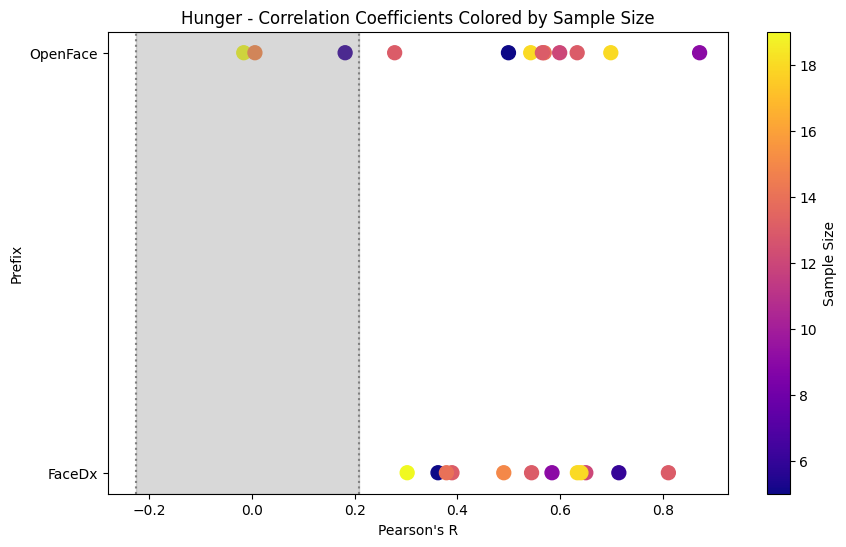
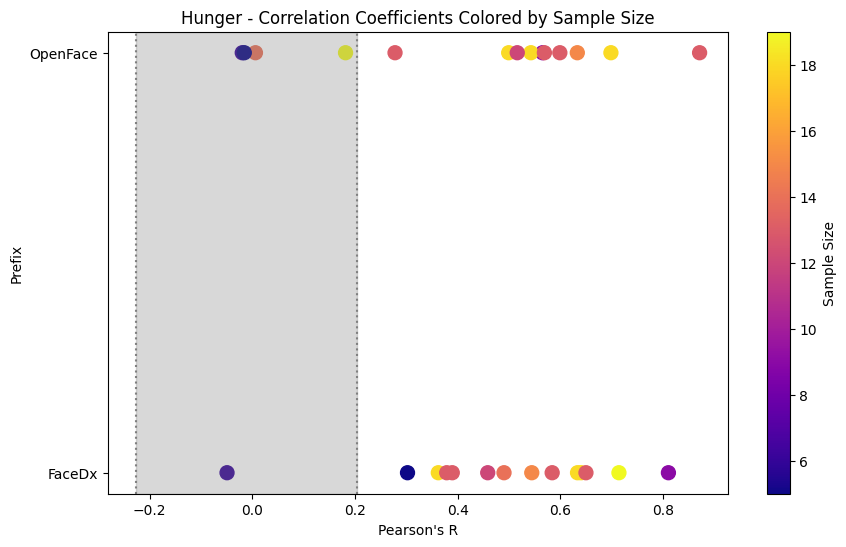
updated color dot plots

diff --git a/main_GroupRPlot.py b/main_GroupRPlot.py
@@ -269,9 +269,9 @@ for metric in METRICS:
             df_moodTracking = preprocess_mood_tracking(patient)
 
             # Check if patient meets the inclusion criteria
-            if not meets_inclusion_criteria(df_moodTracking, metric):
-                print(f"{patient} excluded for {metric} due to not meeting inclusion criteria.")
-                continue
+            # if not meets_inclusion_criteria(df_moodTracking, metric):
+            #     print(f"{patient} excluded for {metric} due to not meeting inclusion criteria.")
+            #     continue
 
             # Load the predictions for both prefixes
             if metric == 'Pain':
